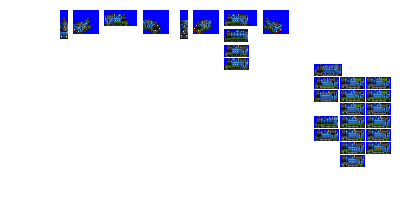
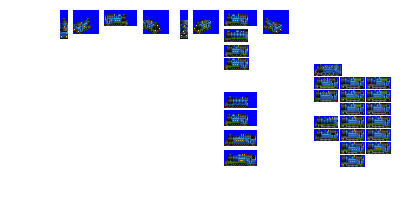
Change: WIP on final round of Pony engines

Changed region(s): [[0.54, 0.45, 0.66, 0.84]]

diff --git a/src/rosters/pony.py b/src/rosters/pony.py
@@ -10,6 +10,7 @@ from vehicles import auto_coach_pony_gen_2
 from vehicles import argus
 from vehicles import arrow
 from vehicles import avenger
+from vehicles import baddesley
 from vehicles import bean_feast
 from vehicles import blackthorn
 from vehicles import blaze
@@ -83,6 +84,7 @@ from vehicles import lemon
 from vehicles import little_bear
 from vehicles import longwater
 from vehicles import mainstay
+from vehicles import marconi
 from vehicles import maximillian
 from vehicles import magnum_70
 from vehicles import merlion
@@ -120,6 +122,7 @@ from vehicles import slug
 from vehicles import snapper
 from vehicles import snowplough_pony_gen_2
 from vehicles import spinner
+from vehicles import stag
 from vehicles import stentor
 from vehicles import stoat
 from vehicles import streamer
@@ -327,9 +330,11 @@ def main(disabled=False):
             lark,
             merrylegs,
             proper_job,
+            stag,
             kelpie,
-            #foxhound,
+            foxhound,
             griffon,
+            marconi,
             pinhorse,
             argus,
             booster,
@@ -358,10 +363,10 @@ def main(disabled=False):
             revolution,
             pegasus,
             streamer,
-            #bulleid,
+            bulleid,
             dragon,
             vulcan,
-            #falcon,
+            falcon,
             onslaught,
             relentless,
             hurly_burly,
@@ -383,6 +388,7 @@ def main(disabled=False):
             # branch freight
             buffalo,
             saxon,
+            baddesley,
             little_bear,
             captain_steel,
             goliath,
@@ -461,7 +467,7 @@ def main(disabled=False):
             firebird,
             blaze,
             scorcher,
-            # iep_thing,
+            iep_thing,
             helm_wind_cab,
             helm_wind_middle,
             brenner_cab,

diff --git a/src/vehicles/iep_passenger_cars.py b/src/vehicles/iep_passenger_cars.py
@@ -1,0 +1,40 @@
+from train import PassengerHSTCarConsist, PaxCar
+
+
+def main():
+    # --------------- pony ----------------------------------------------------------------------
+    consist = PassengerHSTCarConsist(
+        roster_id="pony",
+        base_numeric_id=3900,
+        gen=4,
+        subtype="U",
+        intro_date_offset=0,  # match to Firebird
+        cab_id="firebird",
+        sprites_complete=True,
+    )
+
+    consist.add_unit(type=PaxCar, chassis="4_axle_solid_express_32px")
+
+    consist = PassengerHSTCarConsist(
+        roster_id="pony",
+        base_numeric_id=3480,
+        gen=5,
+        subtype="U",
+        intro_date_offset=-10,  # match to Blaze HST
+        cab_id="blaze",
+        sprites_complete=True,
+    )
+
+    consist.add_unit(type=PaxCar, chassis="4_axle_solid_express_32px")
+
+    consist = PassengerHSTCarConsist(
+        roster_id="pony",
+        base_numeric_id=3490,
+        gen=6,
+        subtype="U",
+        intro_date_offset=-10,  # match to Scorcher HST
+        cab_id="scorcher",
+        sprites_complete=True,
+    )
+
+    consist.add_unit(type=PaxCar, chassis="4_axle_solid_express_32px")

diff --git a/src/vehicles/baddesley.py b/src/vehicles/baddesley.py
@@ -1,0 +1,26 @@
+from train import EngineConsist, SteamEngineUnit
+
+
+def main(roster_id):
+    consist = EngineConsist(
+        roster_id=roster_id,
+        id="baddesley",
+        base_numeric_id=6760,
+        name="0-4-0+0-4-0 Baddesley",
+        role="branch_freight",
+        role_child_branch_num=-1,
+        power=1000,
+        # dibble TE up for game balance, assume low gearing or something
+        tractive_effort_coefficient=0.375,
+        random_reverse=True,
+        gen=3,
+        intro_date_offset=-8,  # introduce earlier than gen epoch by design
+        sprites_complete=False,
+    )
+
+    consist.add_unit(type=SteamEngineUnit, weight=65, vehicle_length=6, spriterow_num=0)
+
+    consist.description = """."""
+    consist.foamer_facts = """GARRATT"""
+
+    return consist

diff --git a/src/vehicles/stag.py b/src/vehicles/stag.py
@@ -1,0 +1,28 @@
+# deprecated
+from train import EngineConsist, SteamEngineUnit
+
+
+def main(roster_id):
+    consist = EngineConsist(
+        roster_id=roster_id,
+        id="stag",
+        base_numeric_id=6750,
+        name="0-6-4 Stag",
+        role="branch_express",
+        role_child_branch_num=-1,
+        power=800,
+        gen=3,
+        tractive_effort_coefficient=0.2,
+        fixed_run_cost_points=120,  # substantial cost bonus so it can make money
+        random_reverse=True,
+        sprites_complete=False,
+    )
+
+    consist.add_unit(type=SteamEngineUnit, weight=58, vehicle_length=6, spriterow_num=0)
+
+    consist.description = (
+        """."""
+    )
+    consist.foamer_facts = """ big tanks"""
+
+    return consist

diff --git a/src/vehicles/marconi.py b/src/vehicles/marconi.py
@@ -1,0 +1,26 @@
+from train import EngineConsist, DieselEngineUnit
+
+
+def main(roster_id):
+    consist = EngineConsist(
+        roster_id=roster_id,
+        id="marconi",
+        base_numeric_id=6730,
+        name="Marconi",
+        role="branch_express",
+        role_child_branch_num=-1,
+        power=1650,
+        random_reverse=True,
+        fixed_run_cost_points=100,  # give a bonus so this can be a genuine mixed-traffic engine
+        gen=5,  # not replaced by anything (?)
+        sprites_complete=False,
+    )
+
+    consist.add_unit(
+        type=DieselEngineUnit, weight=74, vehicle_length=6, spriterow_num=0
+    )
+
+    consist.description = """."""
+    consist.foamer_facts = """DRS Class 20/3"""
+
+    return consist

diff --git a/src/vehicles/iep_thing.py b/src/vehicles/iep_thing.py
@@ -5,7 +5,7 @@ def main(roster_id):
     consist = PassengerHSTCabEngineConsist(
         roster_id=roster_id,
         id="iep_thing",
-        base_numeric_id=5390,
+        base_numeric_id=6740,
         name="Double Tide IEP",
         role="hst",  # quite a specific role, may or may not scale to other rosters
         role_child_branch_num=2,
